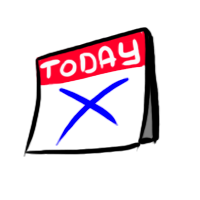
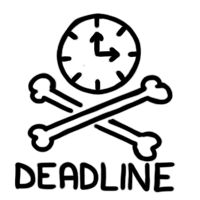
changed navigation

diff --git a/_sass/_site.scss b/_sass/_site.scss
@@ -1,3 +1,5 @@
+@import 'variables';
+
 * {
     -webkit-box-sizing: border-box;
     -moz-box-sizing: border-box;
@@ -87,7 +89,6 @@ blink {
   Header
   -------------- */
 .header {
-    padding: 2%;
 
     &-title {
         font-weight: 300;
@@ -499,7 +500,8 @@ blink {
     width: 100%;
     height: 100%;
 }
-$timeline-dark: rgba(0,0,0,.7);
+$timeline-dark: rgba(255,255,255,.8);
+$timeline-marker: $main-color;
 $timeline-height: 3px;
 
 .timeline {
@@ -507,7 +509,7 @@ $timeline-height: 3px;
     background-color: $link-color;
     height: $timeline-height;
     position: relative;
-    margin: 40px 25px 80px;
+    margin: 10px 25px 80px;
     cursor: pointer;
 
     .thumb {
@@ -577,28 +579,29 @@ $timeline-height: 3px;
         height: $timeline-height;
         background-color: $timeline-dark;
         position: relative;
-        margin-top: 40px;
+        margin-top: 20px;
 
         &:before {
             display: block;
             position: absolute;
             left: 0;
-            top: -($timeline-height) / 2;
+            top: -2px;
             width: 100%;
             text-align: center;
             content: ' ';
-            height: $timeline-height + 2;
-            border-left: 1px solid $timeline-dark;
+            height: 8px;
+            border-left: 1px solid $timeline-marker;
         }
 
         &:after {
             display: block;
+            color: $main-color;
             position: absolute;
             content: 'You are here!';
             text-align: center;
             font-size: 12px;
             left: -35px;
-            top: -16px;
+            top: -22px;
             width: 78px;
         }
     }

diff --git a/_includes/navigation.html b/_includes/navigation.html
@@ -24,13 +24,8 @@
     </script>
     <div class="timeline">
         <div style="margin-left: {{ percentIndex | round}}%" class="current"></div>
-
-
-        <div class="thumb era nobefore" title="era" style="left: {{ percentIndex | round}}%">
-            <img title="era" src="/assets/images/navigation/{{era | round}}.png"/>
-        </div>
-
-        {% if page.previous.url %}
+        
+       
         <div class="thumb initial" title="how it all began">
             <script>
                 document.write("<a href=\"");
@@ -38,6 +33,7 @@
                 document.write("\"><img title='how it all began' src='/assets/images/navigation/0.png'/></a>");
             </script>
         </div>
+        {% if page.previous.url %}
         <div class="thumb prev nobefore" title="previous">
             <a href="{{page.previous.url}}?sc=true">
                 <img title='{{page.previous.title}}' src='/assets/images/navigation/p.png'/>
@@ -59,6 +55,7 @@
                 <img title='{{page.next.title}}' src='/assets/images/navigation/n.png'/>
             </a>
         </div>
+        {% endif %}
 
         <div class="thumb last" title="fresh out of the oven">
             <script>
@@ -67,7 +64,7 @@
                 document.write("\"><img title='fresh out of the oven' src='/assets/images/navigation/13.png'/></a>");
             </script>
         </div>
-        {% endif %}
+       
 
         <div style="width: 100%; height: 10px; position: absolute; top: 0; left: 0; right: 0; "  onclick="doNavigate(event)"></div>
     </div>

diff --git a/_includes/header.html b/_includes/header.html
@@ -7,7 +7,7 @@
         <!-- <div> var menu = [ <a href="/">"home"</a>, <a href="/toc">"list"</a>, <a href="/about/index.html">"about"</a> ];
         </div> -->
         <div class="text-center social-links">
-            <a href="/toc">COMICS LIST</a>
+            <a href="/toc" id="list">COMICS LIST</a>
             <a href="/about/index.html">ABOUT</a>
         </div>
         <div class="text-center social-links">

diff --git a/_includes/scripts.html b/_includes/scripts.html
@@ -17,7 +17,7 @@
         }
     }
     if (window.location.href.indexOf('sc=true') !== -1) {
-        var elmnt = document.querySelector(".thumb.random");
+        var elmnt = document.querySelector("#list");
         window.onload = function () {
             elmnt.scrollIntoView();
         }

diff --git a/_sass/_variables.scss b/_sass/_variables.scss
@@ -13,6 +13,7 @@ $code-gist-font: Menlo, Monaco, "Courier New", monospace !important;
 /*--------------
   Color
   -------------- */
+$main-color: #3b54af;
 $base-color: rgba(#333,0.8);
 $base-lighten-color: lighten($base-color, 50);
 

diff --git a/_sass/_toc.scss b/_sass/_toc.scss
@@ -1,5 +1,7 @@
+@import 'variables';
+
 $line: rgba(64, 64, 64, 1);
-$main-color: #3b54af;
+
 
 .toc {
     display: inline-block;
